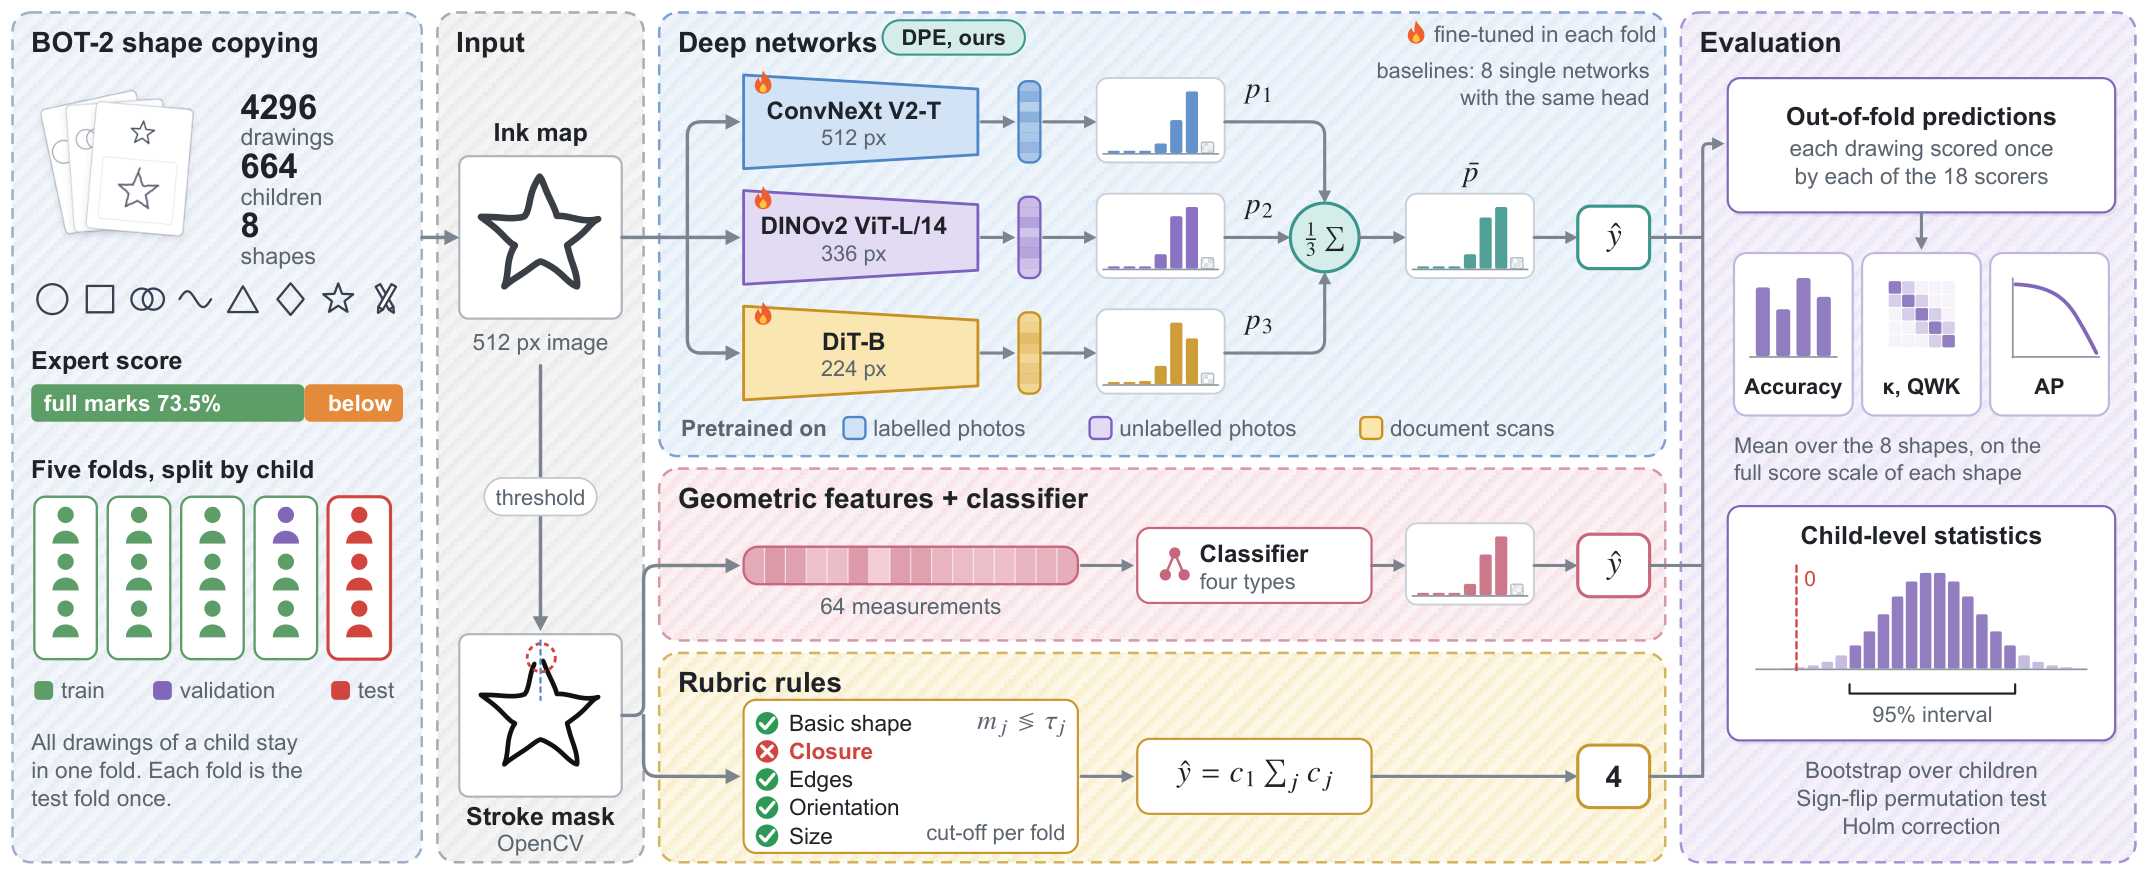
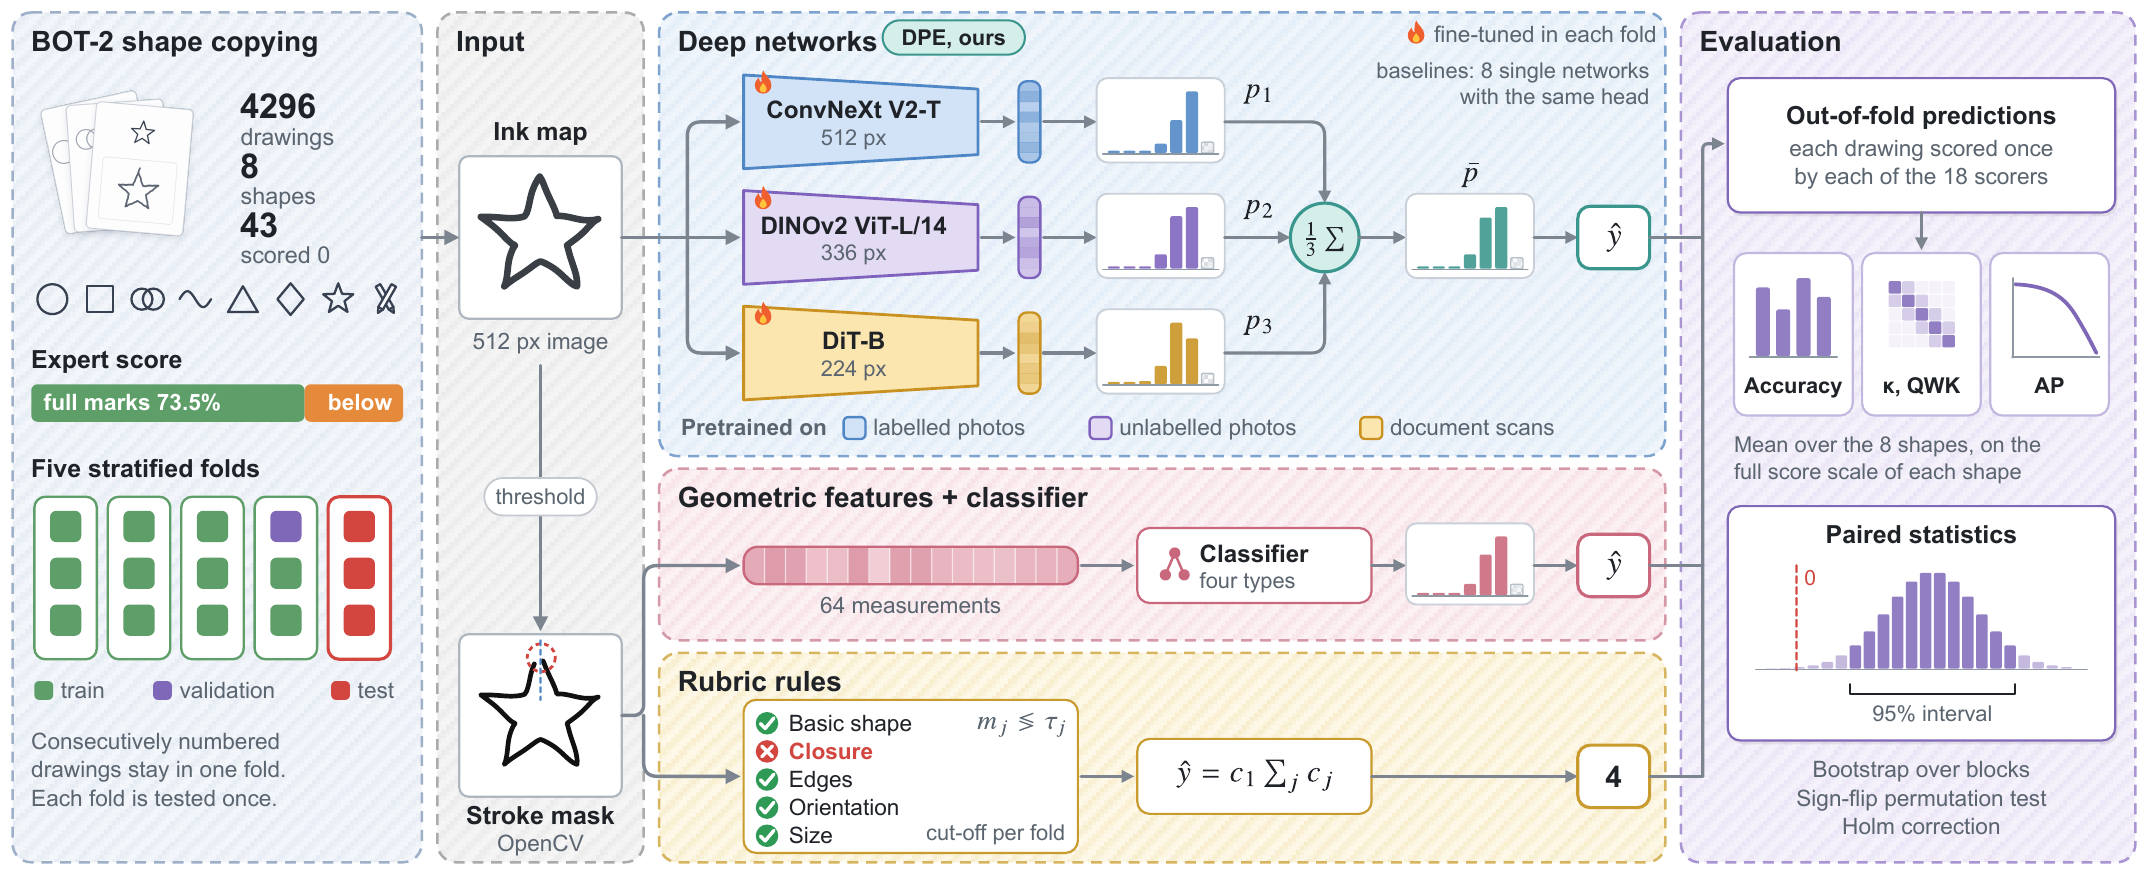
Describe the folds as blocks of consecutive drawings and drop the news section
The archive has no participant identifier, so the README no longer calls the groups children. The overview figure is redrawn with the same wording.

diff --git a/README.md b/README.md
@@ -6,7 +6,7 @@
   <a href='LICENSE'><img src='https://img.shields.io/badge/License-MIT-green.svg'></a>
   <img src='https://img.shields.io/badge/Python-3.10%2B-3776AB.svg'>
   <img src='https://img.shields.io/badge/PyTorch-2.3%2B-EE4C2C.svg'>
-  <img src='https://img.shields.io/badge/Protocol-child--grouped%205--fold%20CV-5E9E68.svg'>
+  <img src='https://img.shields.io/badge/Protocol-grouped%205--fold%20CV-5E9E68.svg'>
 </p>
 
 </div>
@@ -16,21 +16,15 @@
 </p>
 
 <p align="center"><b>Overview.</b> Each drawing becomes an ink map for the networks and a stroke mask for OpenCV. Deep
-networks, classifiers on 64 geometric measurements and rubric rules predict the BOT-2 score. All drawings of a child
-stay in one of five folds, and the scorers are compared with child-level statistics. The drawings shown are
-synthetic.</p>
+networks, classifiers on 64 geometric measurements and rubric rules predict the BOT-2 score. Consecutively numbered
+drawings stay together in one of five folds, and the scorers are compared with paired statistics. The drawings shown
+are synthetic.</p>
 
 In the Fine Motor Integration subtest of the Bruininks-Oseretsky Test of Motor Proficiency, Second Edition (BOT-2), a
 child copies eight shapes. An examiner scores each copy against rubric criteria such as closure, edges and
-orientation. This repository automates that scoring. It compares three ways to do it on the same child-grouped folds.
+orientation. This repository automates that scoring. It compares three ways to do it on the same five folds.
 The proposed scorer is the **Diverse-Pretraining Ensemble (DPE)**. It averages the score distributions of three
 networks pretrained on labelled photos, unlabelled photos and document scans.
-
-
-<h2 style="border-bottom: 1px solid lightgray; margin-bottom: 5px;">News</h2>
-
-- **2026-10-05**: manuscript and figures prepared in CVPR format.
-- **2026-10-04**: five-fold run finished. Every number below is an out-of-fold result of that run.
 
 
 <h2 style="border-bottom: 1px solid lightgray; margin-bottom: 5px;">Method</h2>
@@ -65,9 +59,10 @@ kappa with the examiner's mark for that criterion is highest. `models.recipe()`,
 
 <h2 style="border-bottom: 1px solid lightgray; margin-bottom: 5px;">Results</h2>
 
-4296 drawings of 664 children, five child-grouped folds, every drawing scored once out of fold. Acc is the mean
-accuracy over the eight shapes, and kappa and QWK are computed per shape on its full score scale. AP ranks the drawings
-below full marks.
+4296 drawings, five folds stratified by shape and score, every drawing scored once out of fold. The file names do not
+identify participants, so `data.build_index` groups consecutively numbered drawings into 664 blocks (the `child` column
+in the code) and keeps each block in one fold. Acc is the mean accuracy over the eight shapes, and kappa and QWK are
+computed per shape on its full score scale. AP ranks the drawings below full marks.
 
 | Scorer | Acc (%) | Cohen's κ | QWK | MAE | AP |
 |---|:---:|:---:|:---:|:---:|:---:|
@@ -90,7 +85,7 @@ below full marks.
 | Logistic regression | 75.27 | 0.262 | 0.253 | 0.318 | 0.698 |
 | OpenCV rubric rules | 51.63 | 0.104 | 0.117 | 0.859 | 0.353 |
 
-- After Holm correction DPE was more accurate than each of the other 17 scorers (paired child-level permutation tests,
+- After Holm correction DPE was more accurate than each of the other 17 scorers (paired block-level permutation tests,
   adjusted p ≤ 0.045). Its margin over its strongest member was 0.74 points (95% interval 0.01 to 1.47).
 - Without DiT-B the ensemble was equivalent to DPE within one point (83.67%) with a higher kappa (0.534). Document
   pretraining was 1.64 points less accurate than photo pretraining on the same BEiT-B architecture.
@@ -130,7 +125,7 @@ every run.
 ```
 BOT2_5Fold_CV.ipynb      the whole study in one notebook
 bot2score/
-  data.py                shapes and rubric criteria, archive index, ink maps, child-grouped folds
+  data.py                shapes and rubric criteria, archive index, ink maps, grouped folds
   features.py            stroke mask and the 64 OpenCV measurements
   rules.py               rubric rules with one cut-off per criterion and fold
   classical.py           logistic regression, SVM, random forest, gradient boosting, most frequent score
@@ -138,7 +133,7 @@ bot2score/
   training.py            fine-tuning, collapse restarts, epoch logs, embeddings
   scorers.py             names, paradigms and roles of all scorers
   metrics.py             accuracy, kappa and QWK on the full score scale
-  evaluation.py          out-of-fold predictions, agreement, paired child-level statistics, t-SNE analysis
+  evaluation.py          out-of-fold predictions, agreement, paired block-level statistics, t-SNE analysis
   figures.py             vector PDF figures
   verify.py              re-prediction from the saved weights and SHA-256 manifest
   utils.py               result folders, logging, Colab runtime control
